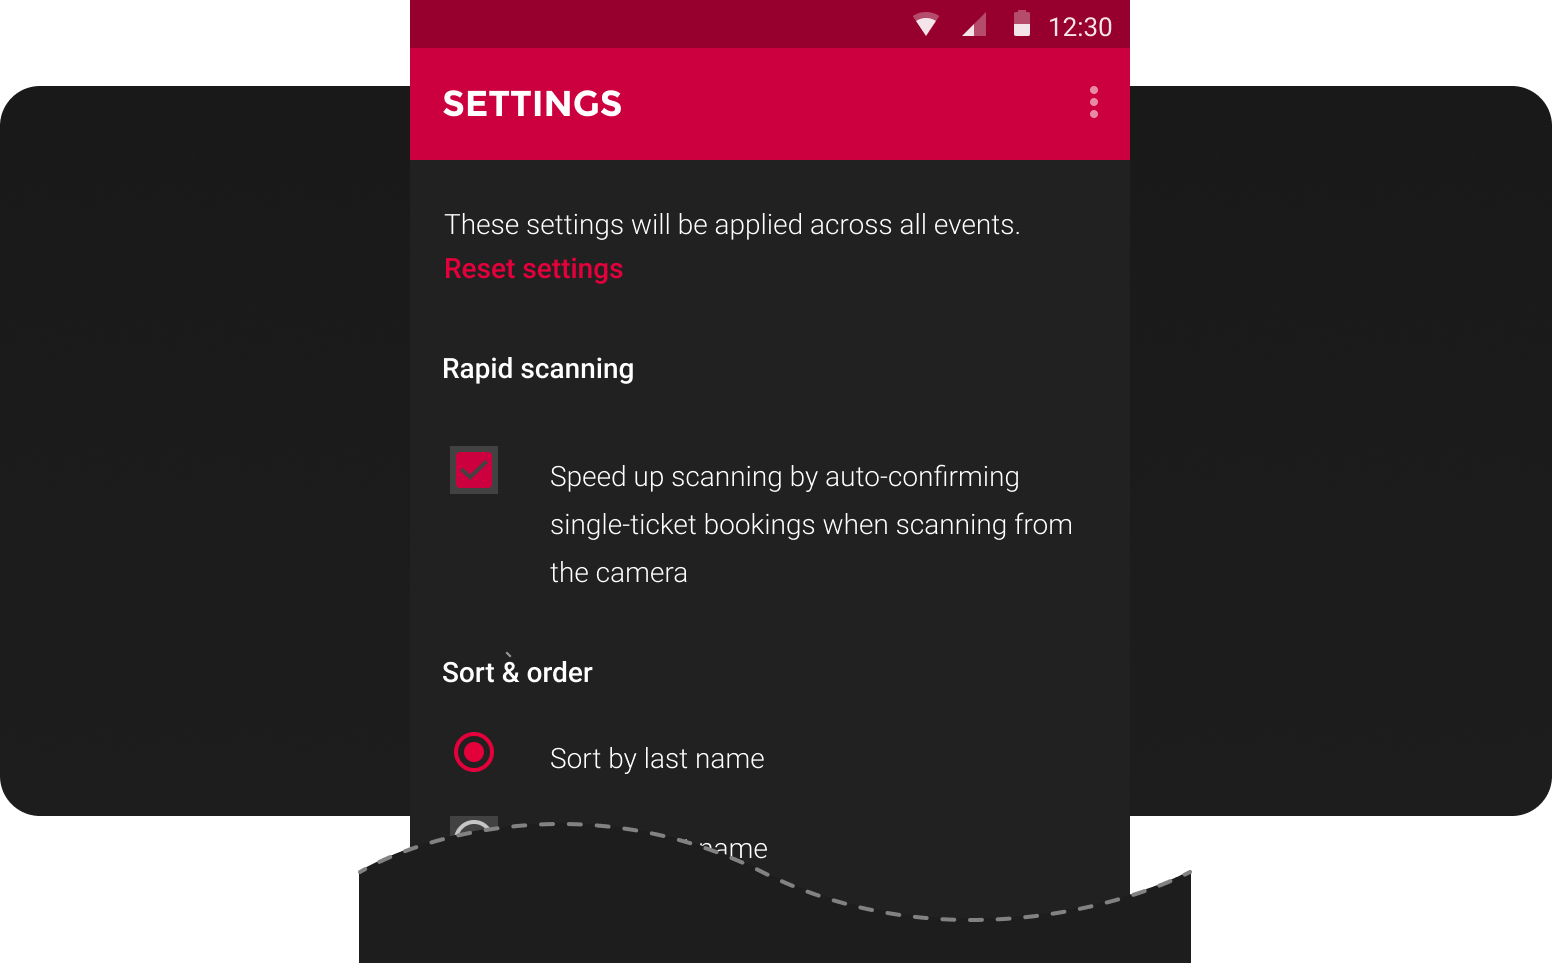
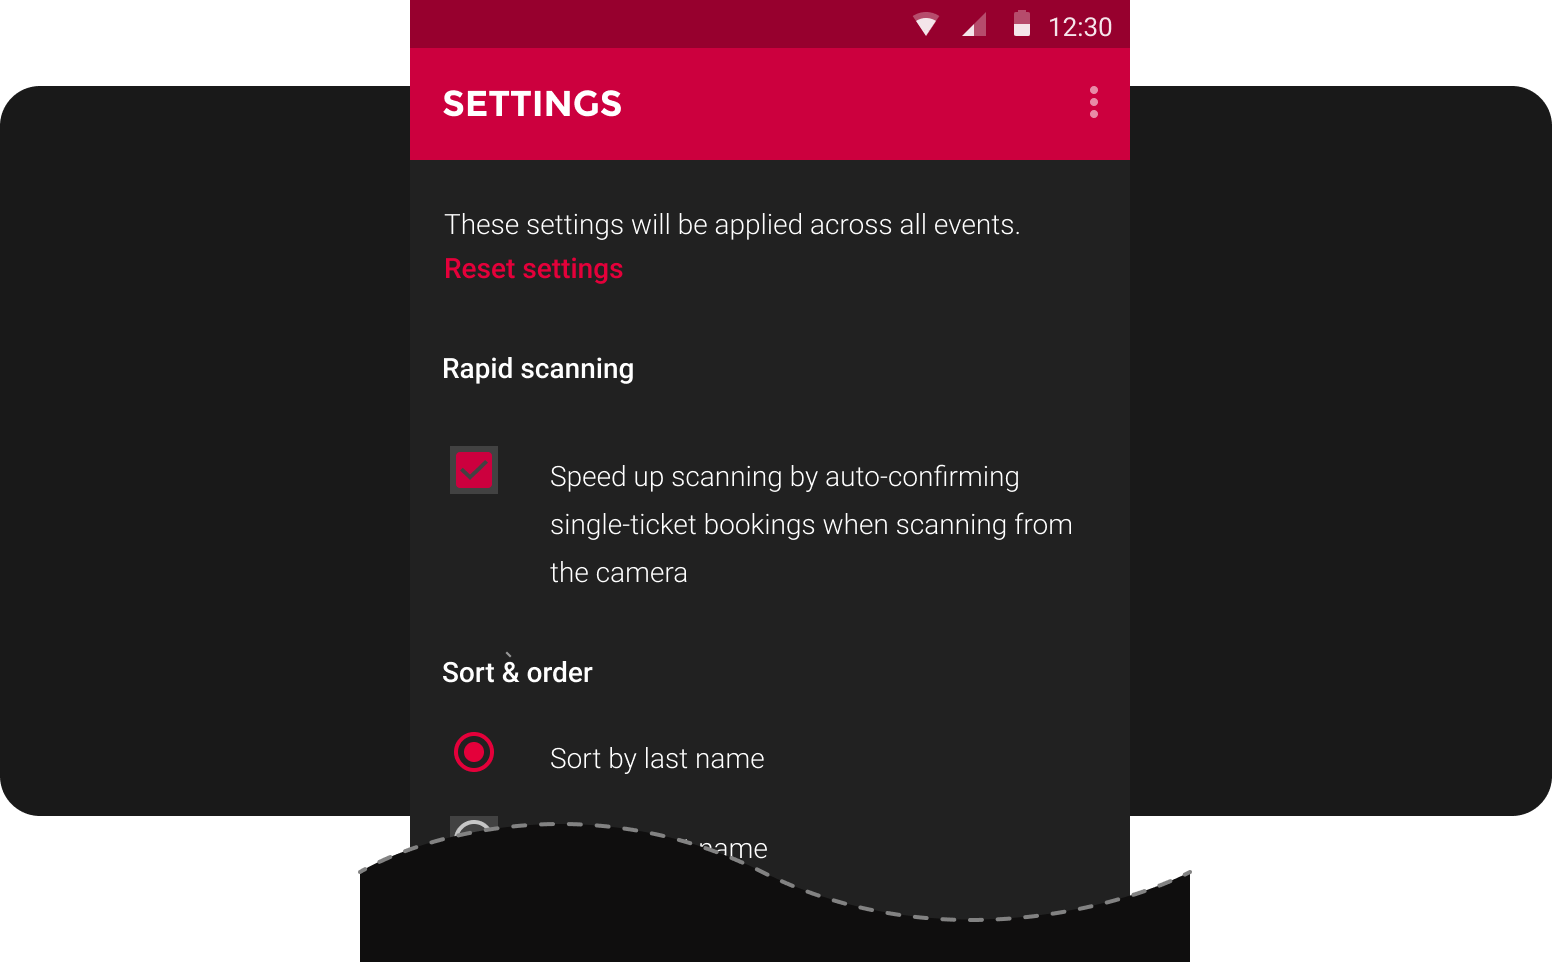
Updated FIXR page with images

diff --git a/src/Components/ProjectSummary/MyInvolvement/index.js b/src/Components/ProjectSummary/MyInvolvement/index.js
@@ -2,9 +2,11 @@ import React from "react";
 import styled, { withTheme } from 'styled-components';
 
 const InvolvementContainer = styled.div`
-   border: 3px solid rgba(${props => props.theme.foreground}, 0.2);
+   background: rgba(${props => props.theme.foreground}, 0.05);
    padding: 20px 20px 10px 20px;
    margin-top: 20px;
+   border-radius: 10px;
+   transition: 0.5s ease;
 `
 
 const LeftColumn = styled.div`
@@ -31,7 +33,7 @@ const InvHeader = styled.h5`
     font-size: 18px;
     margin-top: -5px;
     padding-bottom: 10px;
-    border-bottom: 3px solid rgba(${props => props.theme.foreground}, 0.2);
+    border-bottom: 1px solid rgba(${props => props.theme.foreground}, 0.2);
 `
 
 

diff --git a/src/styles/theme.style.js b/src/styles/theme.style.js
@@ -1,7 +1,7 @@
 export default {
   primary: {background: '255, 255, 255', foreground: '27, 30, 39', link: '14, 94, 206',},
   one: {background: '246, 246, 246', foreground: '27, 30, 39', link: '94, 67, 194',},
-  two: {background: '29, 29, 30', foreground: '255, 255, 255', link: '204, 0, 62',},
+  two: {background: '16, 15, 15', foreground: '255, 255, 255', link: '204, 0, 62',},
   three: {background: '29, 29, 30', foreground: '255, 255, 255', link: '217, 36, 7',},
   four: {background: '95, 209, 255', foreground: '4, 69, 97', link: '2, 36, 51',},
   // one: {background: '8, 65, 92', foreground: '181, 255, 225', link: '68, 255, 209',},

diff --git a/src/Components/CaseStudies/CaseStudyLeft/index.js b/src/Components/CaseStudies/CaseStudyLeft/index.js
@@ -62,7 +62,7 @@ class CaseStudyLeft extends Component {
                             <p>{this.props.body}</p>
                             <ProjectLink projecttheme={this.props.projecttheme} to={this.props.projectLink} href="">View case study</ProjectLink>
                         </div>
-                        <div className="text-center col-6 d-none d-lg-block">
+                        <div className="text-center col-6 d-none d-lg-block overflow-hidden">
                             <Fade>
                                 <MainImg
                                     src={this.props.mainImage}

diff --git a/src/Components/CaseStudies/index.js b/src/Components/CaseStudies/index.js
@@ -8,7 +8,7 @@ import theme from '../../styles/theme.style';
 import LogoTriptease from '../../Pages/Projects/Triptease/Logo.png';
 import MainImageTriptease from '../../Pages/Projects/Triptease/chat-flow.png';
 import LogoFixr from '../../Pages/Projects/Fixr/box-logo-red.png';
-import MainImageFixr from '../../Pages/Projects/Fixr/fixr-main-image.png';
+import MainImageFixr from '../../Pages/Projects/Fixr/two-apps.png';
 
 const CaseStudyContainer = styled.div `
     margin-bottom: 100px;

diff --git a/src/Pages/Projects/Triptease/index.js b/src/Pages/Projects/Triptease/index.js
@@ -4,7 +4,7 @@ import styled, { withTheme } from "styled-components";
 import theme from '../../../styles/theme.style';
 
 import Logo from './Logo.png';
-import img1 from './chat-flow.png';
+import img1 from './chat-flow-main.png';
 import img2 from './response-flow.png';
 import img3 from './example-response-screenshot.png';
 import img4 from './fallback.png';

diff --git a/src/Pages/Projects/Fixr/index.js b/src/Pages/Projects/Fixr/index.js
@@ -4,7 +4,7 @@ import styled, { withTheme } from "styled-components";
 import theme from '../../../styles/theme.style';
 
 import Logo from './box-logo-red.png';
-import img1 from './fixr-main-image.png';
+import img1 from './gloved-hand.png';
 import img2 from './EM.png';
 import img3 from './Process.png';
 import img4 from './settings.png';

diff --git a/src/Components/ProjectSummary/index.js b/src/Components/ProjectSummary/index.js
@@ -4,7 +4,7 @@ import styled, { withTheme } from "styled-components";
 import MyInvolvement from './MyInvolvement';
 
 const MainImg = styled.img`
-height: 500px;
+height: 600px;
 
     @media (max-width: 768px) {
         position: relative;
